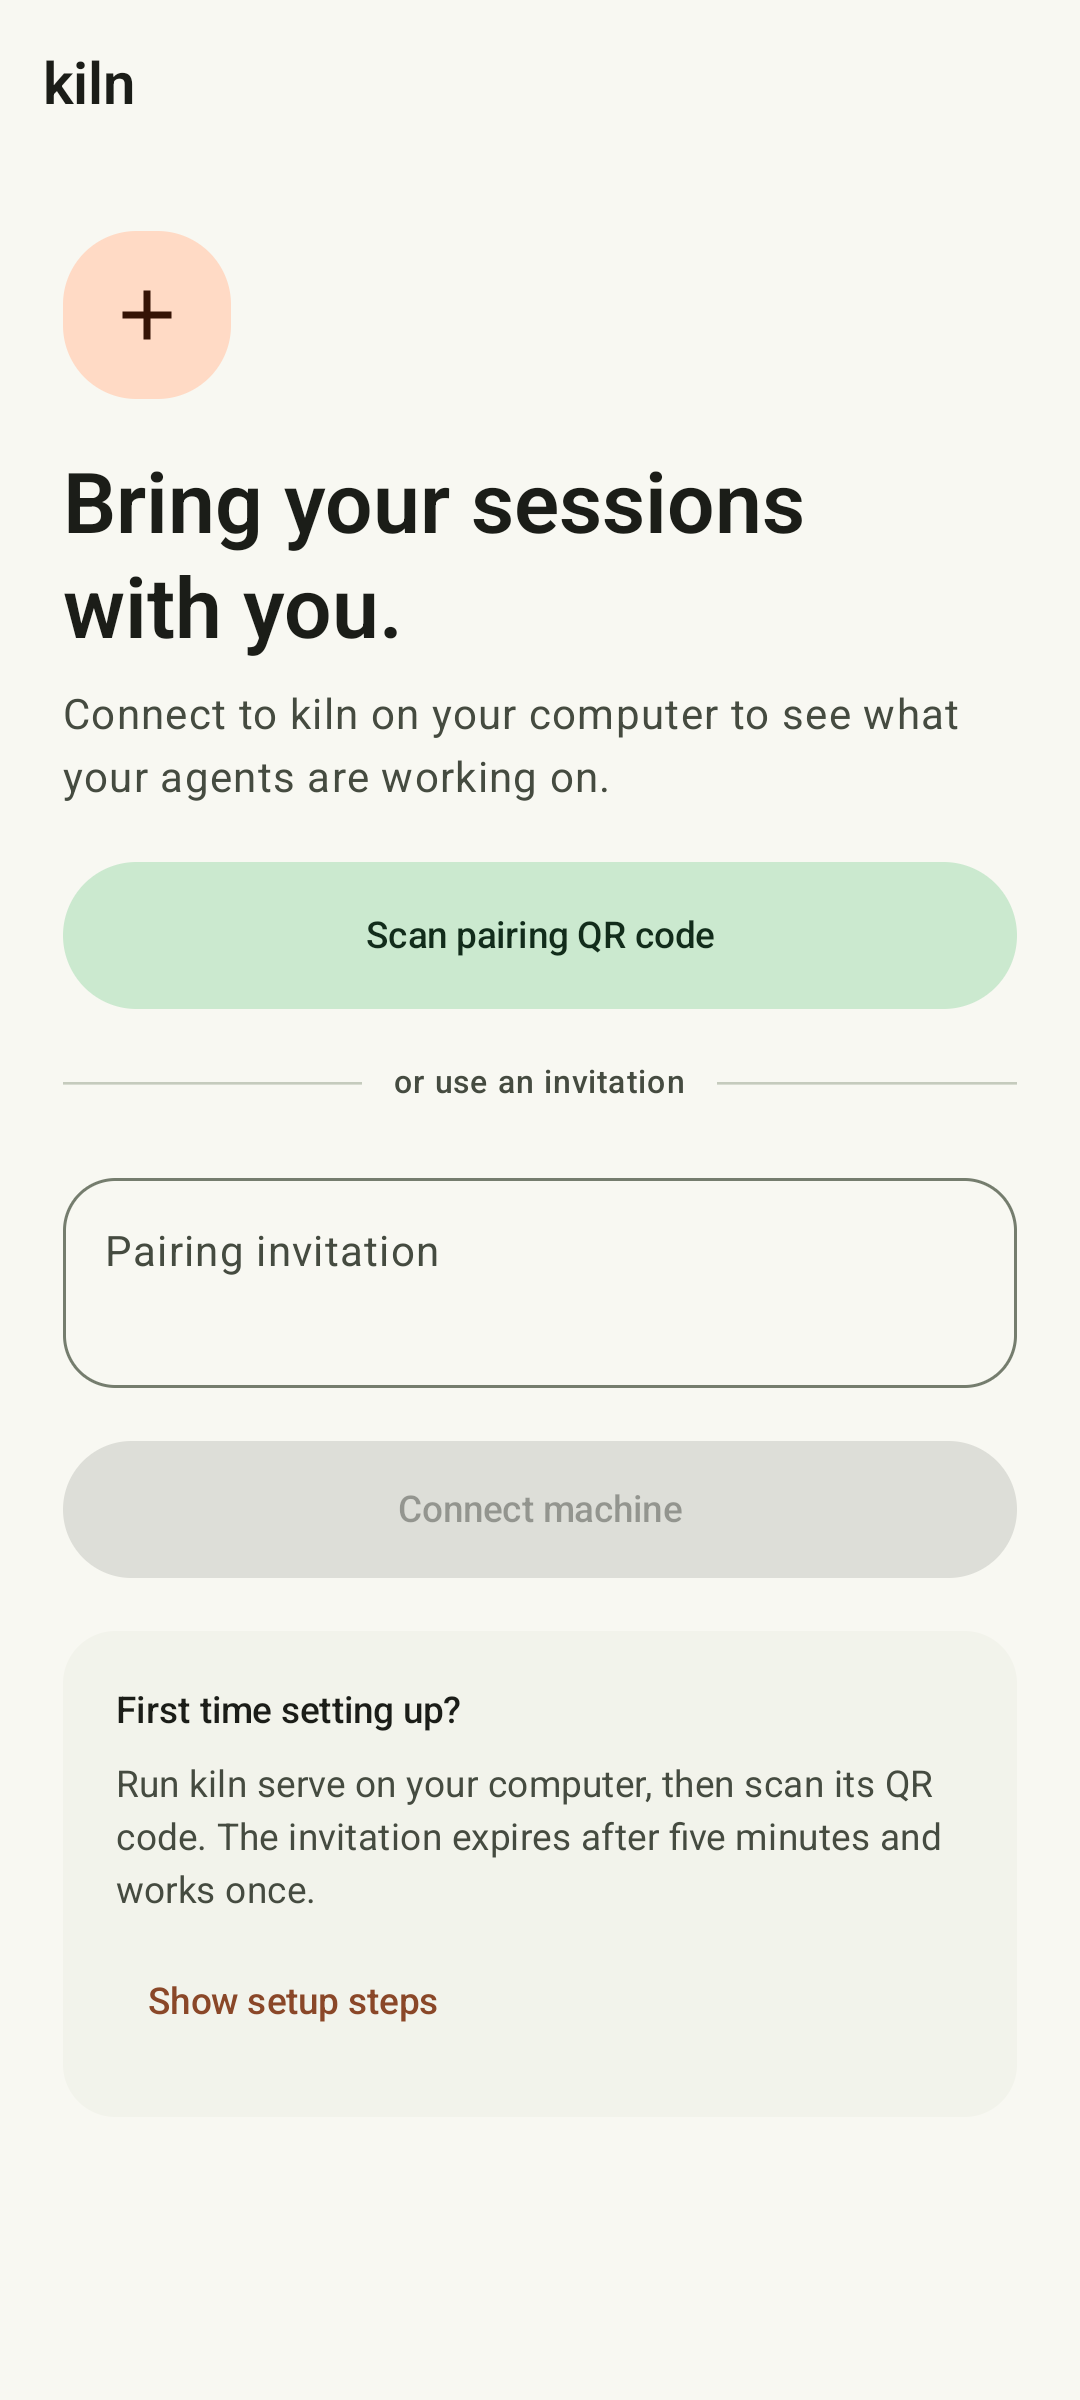
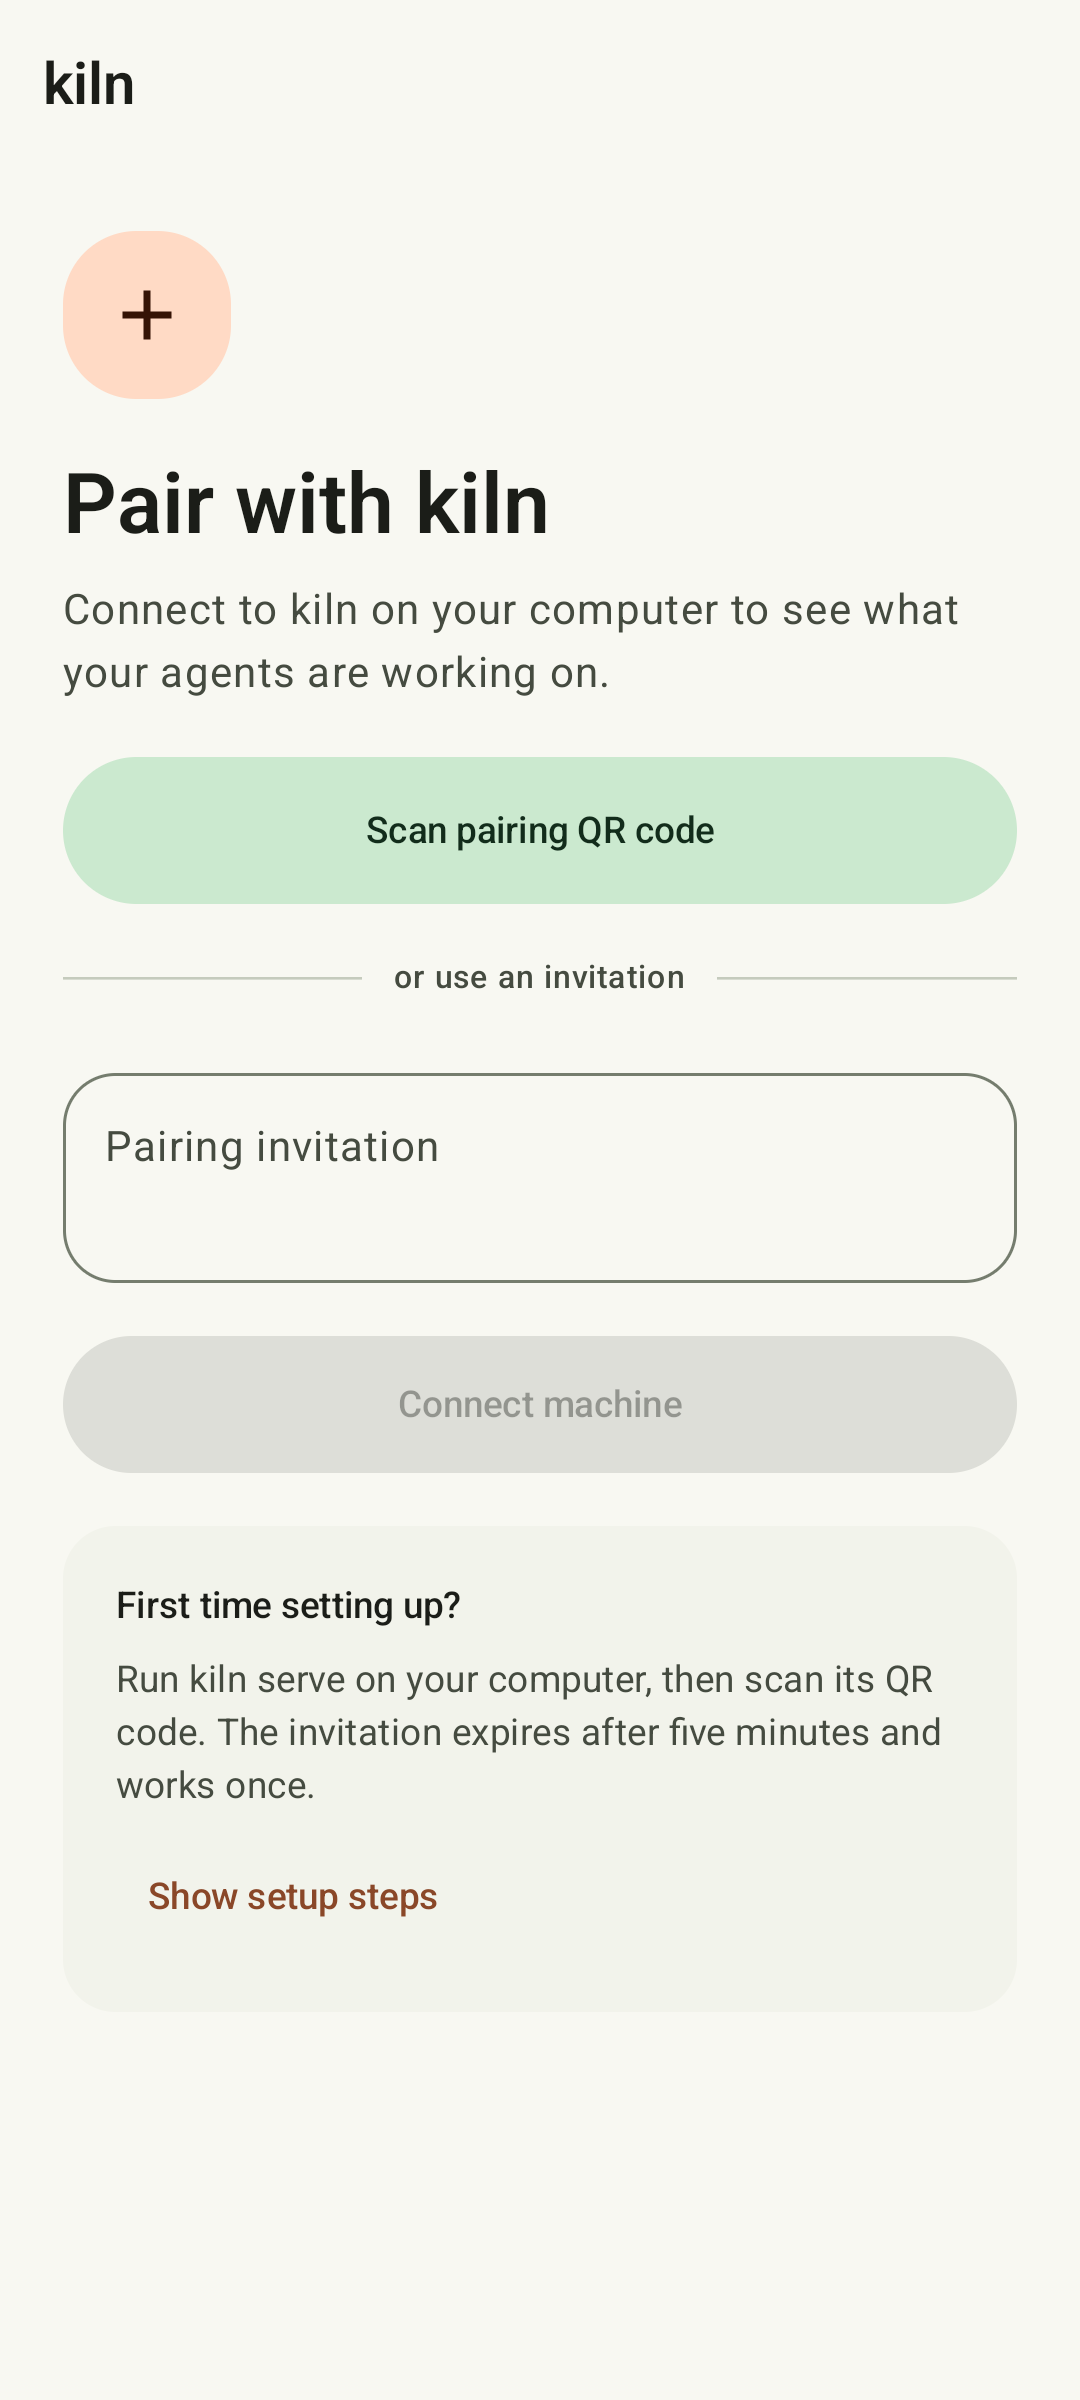
fix: delete finished Claude jobs, Codex archive scan and 0.8.2 release (#45)
## Summary

The items left open by the 0.8.1 audit:

- **Codex archived threads:** the archived-id scan is capped at 10 pages
per refresh and continues on the next one, so a large archive no longer
exhausts the 1.5 s connection budget and blanks Codex status. An archive
that fits in one pass is still rescanned every refresh, so nothing
changes for it.
- **Phone copy:** "Bring your sessions with you." becomes "Pair with
kiln"; "Your sessions, wherever you are." becomes "Computers paired with
this phone."
- **Skills view:** link states use the shared palette.

Changelog entries are under Unreleased; no version bump.

## Test plan

- [x] biome, tsc, `bun test` (82 pass, new test for a 25-page archive),
changelog check, sift gate, agents check
- [x] Android `checkKotlinFormat testDebugUnitTest lintDebug
assembleDebug`
- [x] Terminal and Android screenshots regenerated and inspected

🤖 Generated with [Claude Code](https://claude.com/claude-code)

https://claude.ai/code/session_01DgJBkC81kZyXMX1nmnytPw

---------

Changed region(s): [[0.0611, 0.1875, 0.9472, 0.8438], [0.9167, 0.4375, 0.9472, 0.5312]]

diff --git a/src/codex.ts b/src/codex.ts
@@ -115,6 +115,43 @@ async function rpc<T>(socket: string, action: (call: Call) => Promise<T>, experi
   }
 }
 
+const archivePagesPerRefresh = 10;
+let archive = { socket: "", known: new Set<string>(), scanning: new Set<string>(), cursor: null as string | null };
+
+/**
+ * Archived thread ids. A scan that fits in one refresh is repeated every time, so the answer is
+ * current; a longer one continues on the next refresh instead of exhausting the connection's time
+ * budget, and until it completes the last full scan still applies.
+ */
+async function archivedThreads(socket: string, call: Call): Promise<Set<string>> {
+  if (archive.socket !== socket) archive = { socket, known: new Set(), scanning: new Set(), cursor: null };
+  const scan = archive;
+  try {
+    for (let pages = 0; pages < archivePagesPerRefresh; pages++) {
+      const page: { data: { id: string }[]; nextCursor: string | null } = await call("thread/list", {
+        archived: true,
+        useStateDbOnly: true,
+        sourceKinds: ["cli", "vscode", "exec", "appServer", "unknown"],
+        limit: 100,
+        cursor: scan.cursor,
+      });
+      for (const thread of page.data) scan.scanning.add(thread.id);
+      scan.cursor = page.nextCursor;
+      if (!scan.cursor) {
+        scan.known = scan.scanning;
+        scan.scanning = new Set();
+        break;
+      }
+    }
+  } catch (error) {
+    // A cursor does not survive a daemon restart; start the scan again next time.
+    scan.scanning = new Set();
+    scan.cursor = null;
+    throw error;
+  }
+  return new Set([...scan.known, ...scan.scanning]);
+}
+
 /** The daemon's loaded top-level threads; without a running daemon there are none. */
 export async function codexThreads(localIds: readonly string[] = []): Promise<CodexThread[]> {
   const socket = controlSocket();
@@ -124,19 +161,7 @@ export async function codexThreads(localIds: readonly string[] = []): Promise<Co
     threads = await rpc(socket, async (call) => {
       const loaded = await call<{ data: string[] }>("thread/loaded/list", {});
       if (!loaded.data.length && !localIds.length) return [];
-      const archived = new Set<string>();
-      let cursor: string | null = null;
-      do {
-        const page: { data: { id: string }[]; nextCursor: string | null } = await call("thread/list", {
-          archived: true,
-          useStateDbOnly: true,
-          sourceKinds: ["cli", "vscode", "exec", "appServer", "unknown"],
-          limit: 100,
-          cursor,
-        });
-        for (const thread of page.data) archived.add(thread.id);
-        cursor = page.nextCursor;
-      } while (cursor);
+      const archived = await archivedThreads(socket, call);
       const read = await Promise.all(
         [...new Set([...loaded.data, ...localIds])]
           .filter((id) => !archived.has(id))
@@ -174,7 +199,9 @@ export async function codexThreads(localIds: readonly string[] = []): Promise<Co
 
 /** Archive through the daemon, retaining history and letting Codex manage its descendants. */
 export async function archiveCodexThread(threadId: string): Promise<void> {
-  await rpc(controlSocket(), (call) => call("thread/archive", { threadId }));
+  const socket = controlSocket();
+  await rpc(socket, (call) => call("thread/archive", { threadId }));
+  if (archive.socket === socket) archive.known.add(threadId);
 }
 
 /** The phone's host identity comes from the connected relay, not the machine's hostname. */

diff --git a/src/codex.test.ts b/src/codex.test.ts
@@ -12,6 +12,7 @@ let rejectArchive: boolean;
 let holdInitialization: boolean;
 let requests: { id?: number; method: string; params?: Record<string, unknown> }[];
 let archived: Set<string>;
+let archivePages: number;
 let remoteState: { status: string; environmentId?: string | null };
 
 beforeEach(() => {
@@ -21,6 +22,7 @@ beforeEach(() => {
   const control = join(root, "app-server-control");
   mkdirSync(control);
   archived = new Set(["already-archived"]);
+  archivePages = 0;
   rejectArchive = false;
   holdInitialization = false;
   requests = [];
@@ -46,9 +48,16 @@ beforeEach(() => {
             break;
           case "thread/list":
             expect(request.params.archived).toBe(true);
-            result = request.params.cursor
-              ? { data: [...archived].map((id) => ({ id })), nextCursor: null }
-              : { data: [], nextCursor: "second-page" };
+            if (archivePages) {
+              const page = Number(request.params.cursor ?? 0);
+              result = {
+                data: page === archivePages - 1 ? [...archived].map((id) => ({ id })) : [],
+                nextCursor: page === archivePages - 1 ? null : String(page + 1),
+              };
+            } else
+              result = request.params.cursor
+                ? { data: [...archived].map((id) => ({ id })), nextCursor: null }
+                : { data: [], nextCursor: "second-page" };
             break;
           case "thread/read":
             if (request.params.threadId === "missing-local") {
@@ -103,6 +112,16 @@ describe("Codex archive", () => {
     expect(
       requests.filter((request) => request.method === "thread/read").map((request) => request.params?.threadId),
     ).toEqual(["active"]);
+  });
+
+  test("a long archive is scanned across refreshes instead of timing out", async () => {
+    archivePages = 25;
+    const listed = () => requests.filter((request) => request.method === "thread/list").length;
+    expect((await codexThreads()).map((thread) => thread.id)).toEqual(["active", "already-archived"]);
+    expect(listed()).toBe(10);
+    await codexThreads();
+    expect((await codexThreads()).map((thread) => thread.id)).toEqual(["active"]);
+    expect(listed()).toBe(25);
   });
 
   test("archiving retains history and hides a thread on the next discovery", async () => {

diff --git a/src/launcher.ts b/src/launcher.ts
@@ -117,7 +117,7 @@ export async function createSession(agent: Agent, cwd: string, settings: Setting
   }
 }
 
-export type SessionAction = { verb: "close" | "archive" } | { reason: string };
+export type SessionAction = { verb: "close" | "archive" | "delete" } | { reason: string };
 
 export function sessionAction(session: Session): SessionAction {
   const place = session.place;
@@ -129,7 +129,8 @@ export function sessionAction(session: Session): SessionAction {
     case "thread":
       return { verb: "archive" };
     case "job":
-      if (session.lifecycle) return { reason: `This job has finished; delete it with claude rm ${place.id}` };
+      // `claude rm` removes the job and its worktree, and refuses while that worktree has unpushed work.
+      if (session.lifecycle) return { verb: "delete" };
       return place.stop ? { verb: "close" } : { reason: "Close this session in its native terminal" };
     case "kitty":
     case "elsewhere":
@@ -159,7 +160,15 @@ export async function closeSession(session: Session): Promise<true | string> {
         await archiveCodexThread(place.id);
         break;
       case "job":
-        if (place.stop) {
+        if (session.lifecycle) {
+          const child = Bun.spawn(["claude", "rm", place.id], { stdin: "ignore", stdout: "pipe", stderr: "pipe" });
+          const [output, problem, code] = await Promise.all([
+            new Response(child.stdout).text(),
+            new Response(child.stderr).text(),
+            child.exited,
+          ]);
+          if (code) throw new Error((problem || output).trim().split("\n")[0] || "claude rm failed");
+        } else if (place.stop) {
           const child = Bun.spawn(place.stop, { stdin: "ignore", stdout: "ignore", stderr: "pipe" });
           if (await child.exited) throw new Error("provider could not stop this session");
         }
@@ -174,6 +183,6 @@ export async function closeSession(session: Session): Promise<true | string> {
     closeNativeRecovery(session);
     return true;
   } catch (error) {
-    return `could not close ${session.agent}: ${error instanceof Error ? error.message : String(error)}`;
+    return `could not ${action.verb} ${session.agent}: ${error instanceof Error ? error.message : String(error)}`;
   }
 }

diff --git a/src/launcher.test.ts b/src/launcher.test.ts
@@ -1,5 +1,5 @@
-import { expect, test } from "bun:test";
-import { openSession, sessionAction } from "./launcher";
+import { expect, spyOn, test } from "bun:test";
+import { closeSession, openSession, sessionAction } from "./launcher";
 import type { Session } from "./sessions";
 
 test("only kiln-owned ACP sessions can be closed", () => {
@@ -22,9 +22,7 @@ test("each terminal-less place has its own close rule", () => {
   ).toEqual({
     verb: "close",
   });
-  expect(sessionAction({ ...session, lifecycle: "completed" })).toEqual({
-    reason: "This job has finished; delete it with claude rm 1",
-  });
+  expect(sessionAction({ ...session, lifecycle: "completed" })).toEqual({ verb: "delete" });
   expect(sessionAction({ ...session, agent: "codex", place: { kind: "thread", id: "1", attach: [] } })).toEqual({
     verb: "archive",
   });
@@ -47,4 +45,32 @@ test("opening reports what the view should do without touching the terminal", as
     kind: "notice",
     text: "this Claude cloud session has no verified link",
   });
+});
+
+test("deleting a finished job runs claude rm and reports its refusal", async () => {
+  const job: Session = {
+    agent: "claude",
+    cwd: "/repo",
+    startedAt: 1,
+    lifecycle: "completed",
+    place: { kind: "job", id: "82f7d7c3", attach: [] },
+  };
+  const commands: string[][] = [];
+  let code = 0;
+  const spawn = spyOn(Bun, "spawn").mockImplementation(((command: string[]) => {
+    commands.push(command);
+    return {
+      stdout: new Response("").body,
+      stderr: new Response(code ? "worktree has unpushed commits\nmore detail" : "").body,
+      exited: Promise.resolve(code),
+    };
+  }) as unknown as typeof Bun.spawn);
+  try {
+    expect(await closeSession(job)).toBe(true);
+    expect(commands).toEqual([["claude", "rm", "82f7d7c3"]]);
+    code = 1;
+    expect(await closeSession(job)).toBe("could not delete claude: worktree has unpushed commits");
+  } finally {
+    spawn.mockRestore();
+  }
 });

diff --git a/src/skills-view.tsx b/src/skills-view.tsx
@@ -127,7 +127,7 @@ export function SkillsView({ project, onBack, edit, loadSkills = listSkills }: P
   });
 
   const pageSize = Math.max(1, height - 9);
-  const colours: Record<LinkState, string> = { shared: "#98bc80", missing: "#aaa0db", conflict: "#e6b673" };
+  const colours: Record<LinkState, string> = { shared: color.green, missing: color.purple, conflict: color.yellow };
   const fit = (text: string) => (text.length > width - 2 ? `${text.slice(0, Math.max(0, width - 3))}…` : text);
   const start = Math.floor(index / pageSize) * pageSize;
   const nameWidth = Math.max(12, Math.min(40, width - 38));

diff --git a/src/native-sessions.test.ts b/src/native-sessions.test.ts
@@ -164,9 +164,7 @@ describe("finished Claude jobs", () => {
     expect(done?.activity).toBeUndefined();
     expect(done?.pid).toBeUndefined();
     expect(stopped?.lifecycle).toBe("stopped");
-    expect(sessionAction(done as Session)).toEqual({
-      reason: "This job has finished; delete it with claude rm 82f7d7c3",
-    });
+    expect(sessionAction(done as Session)).toEqual({ verb: "delete" });
   });
 
   test("ignores running jobs, unknown states and ids that are not job ids", () => {

diff --git a/src/app.tsx b/src/app.tsx
@@ -219,7 +219,7 @@ export function App({ initialSettings, onQuit, loadSessions, initialNotice = "" 
       const closed = await closeSession(session);
       setNotice(
         closed === true && "verb" in action
-          ? `closed ${session.agent} in ${tilde(session.cwd)}`
+          ? `${action.verb === "close" ? "closed" : `${action.verb}d`} ${session.agent} in ${tilde(session.cwd)}`
           : closed === true
             ? "session closed"
             : closed,

diff --git a/android/app/src/main/java/com/cjber/kiln/PairingScreen.kt b/android/app/src/main/java/com/cjber/kiln/PairingScreen.kt
@@ -71,7 +71,7 @@ fun PairingScreen(
                 }
                 Column(verticalArrangement = Arrangement.spacedBy(8.dp)) {
                     Text(
-                        "Bring your sessions\nwith you.",
+                        "Pair with kiln",
                         style = MaterialTheme.typography.headlineLarge,
                         fontWeight = FontWeight.SemiBold,
                     )

diff --git a/android/app/src/main/java/com/cjber/kiln/MachinesScreen.kt b/android/app/src/main/java/com/cjber/kiln/MachinesScreen.kt
@@ -38,7 +38,7 @@ fun MachinesScreen(
             )
             Spacer(Modifier.height(8.dp))
             Text(
-                "Your sessions, wherever you are.",
+                "Computers paired with this phone.",
                 style = MaterialTheme.typography.bodyLarge,
                 color = MaterialTheme.colorScheme.onSurfaceVariant,
             )

diff --git a/README.md b/README.md
@@ -47,7 +47,7 @@ Directory headings are orange. Sessions needing permission are yellow, ready ses
 
 New Claude and Codex sessions run inside kiln's private tmux server. `Ctrl+Q` returns to the list and leaves the session running. Existing Kitty sessions can be focused; loaded Codex daemon threads and Claude background sessions can be attached through their native commands. Sessions in other terminals show their location.
 
-Finished Claude background jobs stay in the list, marked `completed` in green or `stopped` in grey. `Enter` attaches with `claude attach`. Kiln does not delete them; use `claude rm <id>`.
+Finished Claude background jobs stay in the list, marked `completed` in green or `stopped` in grey. `Enter` attaches with `claude attach`. `x` deletes one with `claude rm`, which also removes its worktree and refuses while that worktree has unpushed commits.
 
 An owner-only ACP host keeps Pi and previously saved ACP conversations alive when the list closes. Saved Claude and Codex ACP conversations resume in their native terminal, with a private recovery copy of the old kiln history. Pi retains its prompt and approval controls. Native sessions do not run through ACP adapters. Unknown provider activity stays unknown.
 

diff --git a/CHANGELOG.md b/CHANGELOG.md
@@ -9,6 +9,13 @@ verbatim.
 
 ## [Unreleased]
 
+## [0.8.2] - 2026-10-02
+
+- **Finished Claude jobs can be deleted from the list.** `x` on a completed or stopped job asks for confirmation, then runs `claude rm`. Claude removes the job and its worktree and refuses while the worktree has unpushed commits; kiln shows its reason.
+- **Codex status survives a large archive.** Listing archived threads took one pass per refresh inside a 1.5 second budget, so several thousand archived threads made every Codex row lose its status. A long scan now continues across refreshes; a short one still runs in full each time.
+- **Plainer phone copy.** The pairing screen is titled "Pair with kiln" and the machines screen says "Computers paired with this phone."
+- **The skills view uses the list's colours** for shared, missing and conflict.
+
 ## [0.8.1] - 2026-10-02
 
 - **Claude sessions show their titles again.** Claude Code now records the titles it generates separately from ones you set with `/rename`, and kiln read only the latter, so sessions fell back to names like `kiln-05`. Kiln reads both; a title you set still wins.
